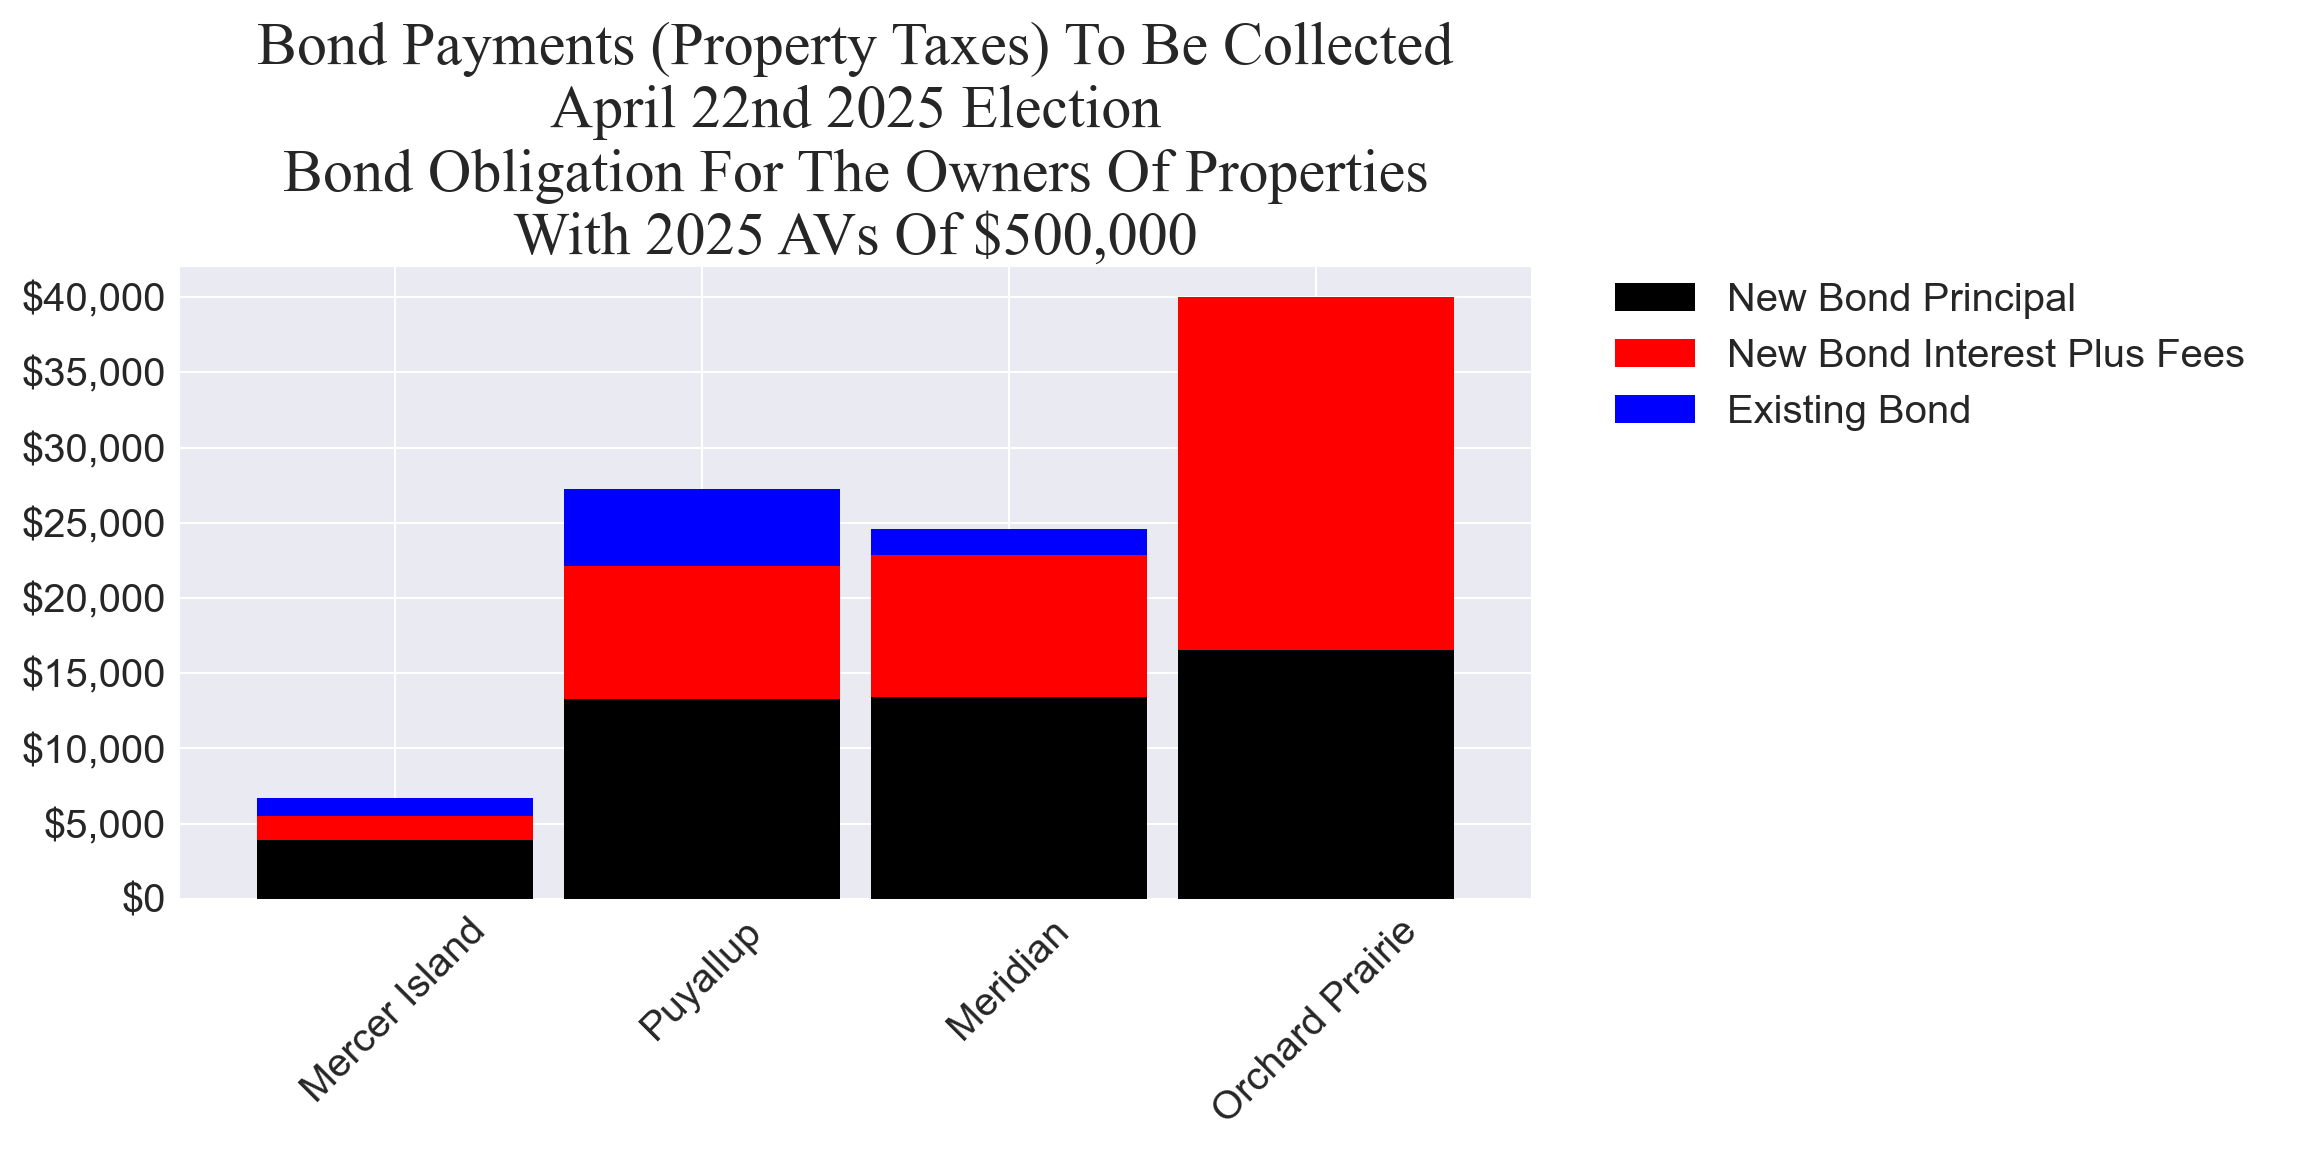
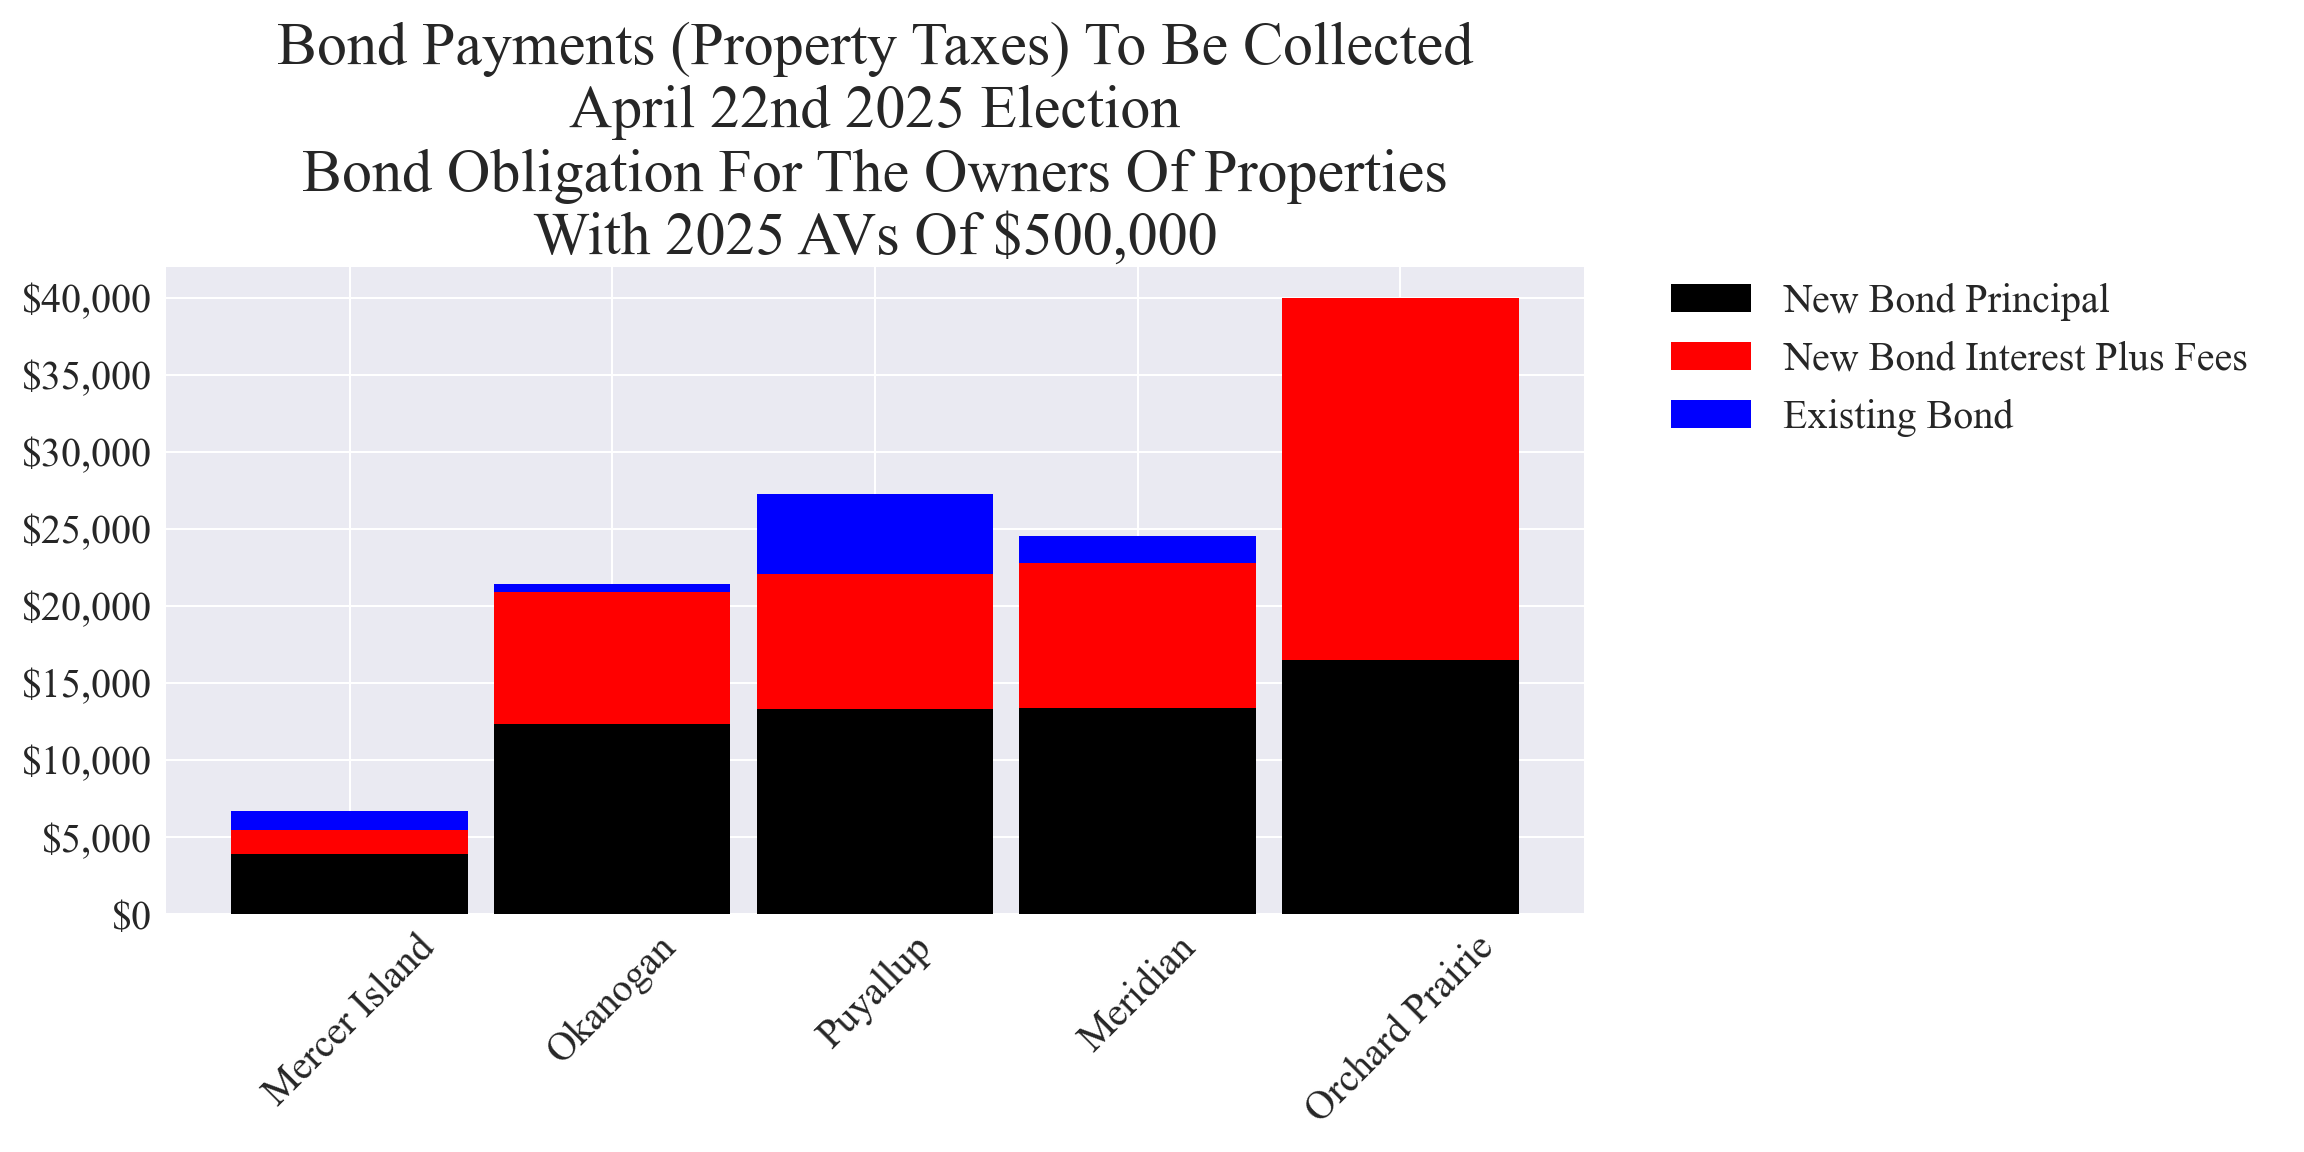
Added Okanogan

diff --git a/_includes/cost_estimates/20250422/Okanogan_20250422_Enhanced.html b/_includes/cost_estimates/20250422/Okanogan_20250422_Enhanced.html
@@ -1,0 +1,230 @@
+<html>
+ <head>
+  <script type="text/javascript" src="https://www.gstatic.com/charts/loader.js"></script>
+  <script type="text/javascript">
+    google.charts.load('current', {'packages':['corechart','bar','table']});
+    google.charts.setOnLoadCallback(drawStuff);
+
+	var table_input;
+	var table;
+	var chart;
+	//var data;
+	var dataParcel;
+	
+	totalBondAV = 575496000;
+	sampleParcelAV = 500000;
+	sampleParcelAVMin = 100000;
+	sampleParcelAVMax = 2000000;
+	totalBondPrincipal = 14227000;
+	totalBondInterest = 9821000;
+	totalBondCost = totalBondPrincipal + totalBondInterest;
+	sampleParcelPOF = sampleParcelAV / totalBondAV;
+	totalBondCostParcel = 0;
+	totalBondPrincipalParcel = 0;
+	totalBondInterestParcel = 0;
+	bondYears = 19;
+	averageTotalBondCostParcel = 0;
+	// Correction factor for February elections
+	pofYear = 0
+
+	// POF Annual Change Percent
+	pofAdjust = 0;
+	pofAdjustMin = -3.0;
+	pofAdjustMax = 3.0;
+
+    function drawStuff() {
+		data = new google.visualization.DataTable();
+		data.addColumn('string', 'Year');
+		data.addColumn('number', 'Principal');
+		data.addColumn('number', 'Interest + Fees');
+
+		data.addRows([
+			['2026', 266938.0, 781062.0],
+			['2027', 249593.0, 766407.0],
+			['2028', 345295.0, 752705.0],
+			['2029', 385252.0, 733748.0],
+			['2030', 430402.0, 712598.0],
+			['2031', 475031.0, 688969.0],
+			['2032', 525111.0, 662889.0],
+			['2033', 579939.0, 634061.0],
+			['2034', 634778.0, 602222.0],
+			['2035', 694627.0, 567373.0],
+			['2036', 758762.0, 529238.0],
+			['2037', 827418.0, 487582.0],
+			['2038', 896843.0, 442157.0],
+			['2039', 975080.0, 392920.0],
+			['2040', 1053612.0, 339388.0],
+			['2041', 1141455.0, 281545.0],
+			['2042', 1229121.0, 218879.0],
+			['2043', 1326600.0, 151400.0],
+			['2044', 1431142.0, 75858.0],
+
+		]);
+
+		dataParcel = new google.visualization.DataTable();
+		dataParcel.addColumn('string', 'Year');
+		dataParcel.addColumn('number', 'Principal');
+		dataParcel.addColumn('number', 'Interest + Fees');
+
+		dataParcel.addRows(bondYears);
+
+		sampleParcelPOFEffective = sampleParcelPOF;
+		totalBondPrincipalParcel = 0;
+		totalBondInterestParcel = 0;
+		for (let i = 0; i < bondYears; i++) {
+			sampleParcelPOFEffective = sampleParcelPOF * (1 + pofAdjust/100) ** (1 + i + pofYear);
+			dataParcel.setCell(i, 0, data.getValue(i, 0));
+			dataParcel.setCell(i, 1, data.getValue(i, 1) * sampleParcelPOFEffective);
+			dataParcel.setCell(i, 2, data.getValue(i, 2) * sampleParcelPOFEffective);
+			totalBondPrincipalParcel = totalBondPrincipalParcel +  data.getValue(i, 1) * sampleParcelPOFEffective;
+			totalBondInterestParcel = totalBondInterestParcel +  data.getValue(i, 2) * sampleParcelPOFEffective;
+		}		
+		totalBondCostParcel = totalBondPrincipalParcel + totalBondInterestParcel;
+		averageTotalBondCostParcel = totalBondCostParcel / bondYears;
+
+		options = {
+			title: 'Estimated Bond Cost Schedule For The Sample Parcel',
+			isStacked: true,
+			hAxis: {
+			title: '',
+			//format: 'h:mm a',
+			viewWindow: {
+				min: [7, 30, 0],
+				max: [17, 30, 0]
+			}
+        },
+        vAxis: {
+			title: '$'
+        }
+		};
+	  
+
+		table_input_data = new google.visualization.DataTable();
+		table_input_data.addColumn('string', 'Description');
+		table_input_data.addColumn('number', 'Value');
+		table_input_data.addRows([
+			['Sample Parcel 2025 Tax Year Assessed Value (AV)', sampleParcelAV],
+		]);
+
+		table_data = new google.visualization.DataTable();
+		table_data.addColumn('string', 'Description');
+		table_data.addColumn('number', 'Value');
+		table_data.addRows([
+			['Total cost', totalBondCostParcel],
+			['Average cost per year for 19 years', averageTotalBondCostParcel],
+			['Total principal cost', totalBondPrincipalParcel],
+			['Total interest + fees cost', totalBondInterestParcel],
+		]);
+
+	  
+		chart = new google.visualization.ColumnChart(document.getElementById('chart_div'));
+		formatter = new google.visualization.NumberFormat(
+		{prefix: '$', fractionDigits:0, negativeColor: 'red', negativeParens: true});
+		formatter.format(dataParcel, 1); // Apply formatter to second column
+		formatter.format(dataParcel, 2); // Apply formatter to third column
+		chart.draw(dataParcel, options);
+		
+		table = new google.visualization.Table(document.getElementById('table_output_div'));
+		formatter.format(table_data, 1); // Apply formatter to second column
+		table.draw(table_data, {sort:'disable'});
+		
+		table_input = new google.visualization.Table(document.getElementById('table_input_div'));
+		formatter.format(table_input_data, 1); // Apply formatter to second column
+		table_input.draw(table_input_data, {sort:'disable'});
+
+		// POF Adjust table
+		table_pof_adjust_input_data = new google.visualization.DataTable();
+		table_pof_adjust_input_data.addColumn('string', 'Description');
+		table_pof_adjust_input_data.addColumn('number', 'Value');
+		table_pof_adjust_input_data.addRows([
+			['POF annual change', pofAdjust ],
+		]);
+ 
+		// Input table for POF change
+		formatterPercent1 = new google.visualization.NumberFormat(
+			{suffix: '%', fractionDigits:1, negativeColor: 'red', negativeParens: false});
+		table_pof_adjust_input = new google.visualization.Table(document.getElementById('table_pof_adjust_input_div'));
+		formatterPercent1.format(table_pof_adjust_input_data, 1); // Apply formatter to second column
+		table_pof_adjust_input.draw(table_pof_adjust_input_data, {sort:'disable'});
+	}
+
+    function changeParcelAV(dir) {
+		//Update table input
+		sampleParcelAV = sampleParcelAV + dir
+		if (sampleParcelAV < sampleParcelAVMin)
+			sampleParcelAV = sampleParcelAVMin
+		if (sampleParcelAV > sampleParcelAVMax)
+			sampleParcelAV = sampleParcelAVMax
+		sampleParcelPOF = sampleParcelAV / totalBondAV;
+		table_input_data.setValue(0, 1, sampleParcelAV);
+		formatter.format(table_input_data, 1); // Apply formatter to second column
+		table_input.draw(table_input_data);
+
+		//Update chart
+		sampleParcelPOFEffective = sampleParcelPOF;
+		totalBondPrincipalParcel = 0;
+		totalBondInterestParcel = 0;
+		for (let i = 0; i < bondYears; i++) {
+			sampleParcelPOFEffective = sampleParcelPOF * (1 + pofAdjust/100) ** (1 + i + pofYear);
+			dataParcel.setCell(i, 0, data.getValue(i, 0));
+			dataParcel.setCell(i, 1, data.getValue(i, 1) * sampleParcelPOFEffective);
+			dataParcel.setCell(i, 2, data.getValue(i, 2) * sampleParcelPOFEffective);
+			totalBondPrincipalParcel = totalBondPrincipalParcel +  data.getValue(i, 1) * sampleParcelPOFEffective;
+			totalBondInterestParcel = totalBondInterestParcel +  data.getValue(i, 2) * sampleParcelPOFEffective;
+		}		
+		totalBondCostParcel = totalBondPrincipalParcel + totalBondInterestParcel;
+		averageTotalBondCostParcel = totalBondCostParcel / bondYears;
+		formatter.format(dataParcel, 1); // Apply formatter to second column
+		formatter.format(dataParcel, 2); // Apply formatter to third column
+		chart.draw(dataParcel, options);
+
+		//Update table output
+		sampleParcelPOF = sampleParcelAV / totalBondAV;
+		//totalBondCostParcel = sampleParcelPOF * totalBondCost;
+		//totalBondPrincipalParcel = sampleParcelPOF * totalBondPrincipal;
+		//totalBondInterestParcel = sampleParcelPOF * totalBondInterest;
+		table_data.setValue(0, 1, totalBondCostParcel); // Total bond cost parcel
+		table_data.setValue(1, 1, averageTotalBondCostParcel); // Average cost per year for parcel
+		table_data.setValue(2, 1, totalBondPrincipalParcel); // Total principal for parcel
+		table_data.setValue(3, 1, totalBondInterestParcel); // Total interest + fees for parcel
+		formatter.format(table_data, 1); // Apply formatter to second column
+		table.draw(table_data);
+    }
+	
+	function changePOFChange(dir) {
+		pofAdjust = pofAdjust + dir;
+		if (pofAdjust < pofAdjustMin)
+			pofAdjust = pofAdjustMin;
+		if (pofAdjust > pofAdjustMax)
+			pofAdjust = pofAdjustMax;
+		table_pof_adjust_input_data.setValue(0, 1, pofAdjust);
+		formatterPercent1.format(table_pof_adjust_input_data, 1); // Apply formatter to second column
+		table_pof_adjust_input.draw(table_pof_adjust_input_data);
+		changeParcelAV(0);
+	}
+
+  </script>
+ </head>
+ <body>
+  <H2>Property tax impact estimate calculator for the April 22nd 2025 bond measure proposed by the Okanogan SD </H2>
+  <p>Created by the author independently from and not associated with the taxing district</p>
+  <H3>Input</H3>
+  <div id="table_input_div" style="width:1200px; height: 60px;"></div>
+  <input type="button" value="Increase Sample Parcel 2025 Tax Year AV" onclick="changeParcelAV(25000)" />
+  <input type="button" value="Decrease Sample Parcel 2025 Tax Year AV" onclick="changeParcelAV(-25000)" />
+  <p></p>
+  <div id="table_pof_adjust_input_div" style="width:1200px; height: 60px;"></div>
+  <input type="button" value="Increase POF Annual Change" onclick="changePOFChange(0.1)" />
+  <input type="button" value="Decrease POF Annual Change" onclick="changePOFChange(-0.1)" />
+  <p></p>
+  <H3>Output</H3>
+  <p>Estimated obligations for the sample parcel</P>
+  <div id="table_output_div" style="width:1200px; height: 130px;"></div>
+  <div id="chart_div" style="width:800px; height: 640px;"></div>
+  <p>POF: Proportional Obligation Factor equals the assessed value (AV) of the sample parcel divided by the Total AV of the properties within the district's tax area.</p>
+ <H3>Data Sources</H3>
+  <p>District's bond/levy projection datasheet</p>
+  <p>County's annual tax booklets</p>
+ </body>
+</html>
+

diff --git a/pagesManual/LeviesReport/20250422/OkanoganCountyMeasures20250422.md b/pagesManual/LeviesReport/20250422/OkanoganCountyMeasures20250422.md
@@ -1,0 +1,24 @@
+---
+layout: page
+title: Okanogan County School District Measures
+permalink: okanogancountymeasures20250422
+---
+
+___
+
+### Okanogan SD
+
+![Okanogan SD bond totals chart](pagesManual/LeviesReport/20250422/Okanogan.png "Okanogan SD bond totals chart")
+![Okanogan SD bond example parcel chart](pagesManual/LeviesReport/20250422/OkanoganParcel.png "Okanogan SD bond example parcel chart")
+
+[Link to the interactive calculator](calculator_okanogan_20250422_enhanced){:target="_blank" rel="noopener"}
+
+[Link to the interactive cost impact estimating calculator version 2 {shows how guesstimated future bond tax rates are meaningless}](table_okanogan_bond_20250422){:target="_blank" rel="noopener"}
+
+This next chart shows the estimated average annual taxes for just this bond for local property taxpayers.  The worst case scenario for taxpayers is usually the assumption of zero new construction. Another reasonable scenario to consider is continued new construction for each tax collection year of this one bond at the same pace as the latest tax year.
+
+![Okanogan SD average annual costs for different new construction rates](pagesManual/LeviesReport/20250422/OkanoganNewConstruction.png "Okanogan SD new construction chart")
+
+
+___
+

diff --git a/pagesManual/LeviesReport/20250422/MarkdownUniqueCounties.md b/pagesManual/LeviesReport/20250422/MarkdownUniqueCounties.md
@@ -8,7 +8,15 @@
 
 [Lewis](lewiscountymeasures20250422)
 
+[Okanogan](okanogancountymeasures20250422)
+
+[Pierce](piercecountymeasures20250422)
+
+[Spokane](spokanecountymeasures20250422)
+
 [Stevens](stevenscountymeasures20250422)
 
 [Walla Walla](wallawallacountymeasures20250422)
+
+[Whatcom](whatcomcountymeasures20250422)
 

diff --git a/pagesManual/LeviesReport/report_levies_20250422.md b/pagesManual/LeviesReport/report_levies_20250422.md
@@ -90,6 +90,8 @@ ___
 
 [Lewis](lewiscountymeasures20250422)
 
+[Okanogan](okanogancountymeasures20250422)
+
 [Pierce](piercecountymeasures20250422)
 
 [Spokane](spokanecountymeasures20250422)
